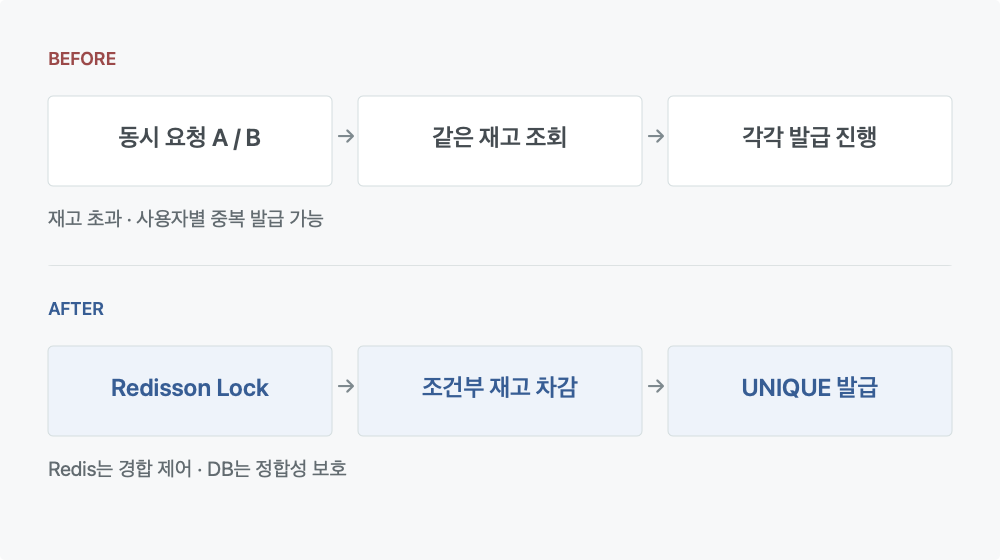
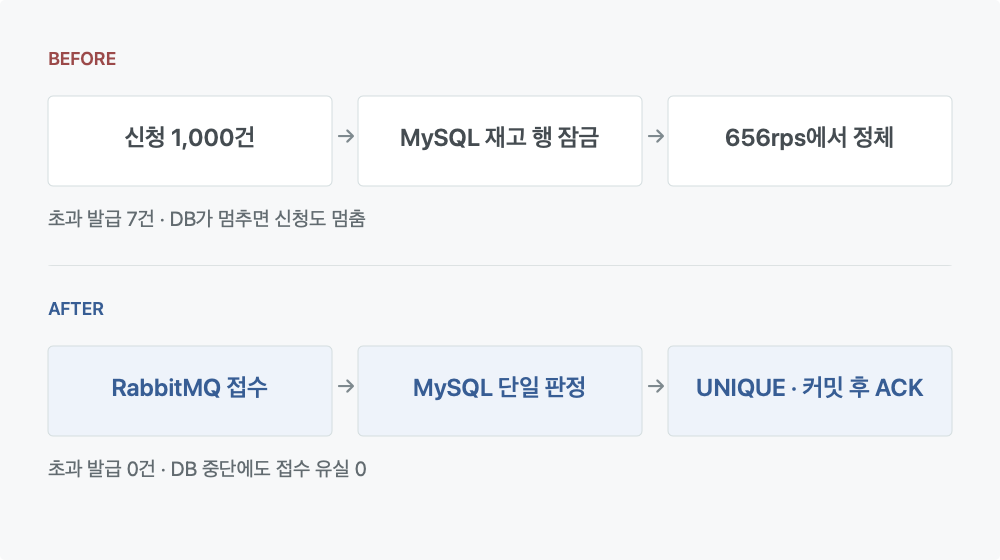
feat: 이력서·포트폴리오 PDF 내용에 맞춰 쿠폰·한 스푼 프로젝트 갱신
- Project 섹션: 쿠폰 발급을 RabbitMQ 접수 + MySQL 단일 판정 재설계(측정
  수치 포함)로, 한 스푼 신고 알림을 Transactional Outbox 상세 내용으로 교체
- Givemeticon 포트폴리오: 쿠폰 케이스를 세 번의 구조 결정(MySQL → Redis →
  RabbitMQ + MySQL)과 검증 결과로 교체, 인기순 조회 케이스는 유지
- 쿠폰 다이어그램·썸네일·메타(스택, 요약) 갱신

diff --git a/portfolio/givemeticon.html b/portfolio/givemeticon.html
@@ -1,62 +1,68 @@
 ---
 layout: case
-title: Givemeticon | 쿠폰 정합성과 인기순 조회 개선
+title: Givemeticon | 선착순 쿠폰 발급 구조와 인기순 조회 개선
 permalink: /portfolio/givemeticon/
 project: givemeticon
 ---
 <section class="experience" id="coupon-consistency" aria-labelledby="coupon-title">
   <header class="experience-heading">
-    <p class="eyebrow">01 / CONSISTENCY · Redisson, MySQL</p>
-    <h2 id="coupon-title">재고와 중복 발급 규칙을 DB까지 보호</h2>
-    <p class="problem"><strong>문제</strong>동시 요청에서 재고를 초과하거나 같은 사용자에게 쿠폰을 중복 발급할 수 있었습니다.</p>
+    <p class="eyebrow">01 / SCALABILITY · RabbitMQ, MySQL, Redis</p>
+    <h2 id="coupon-title">측정 결과를 따라 세 번 바꾼 선착순 쿠폰 발급 구조</h2>
+    <p class="problem"><strong>문제</strong>1,000명이 동시에 신청하는 선착순 쿠폰에서 초과 발급, 처리량 한계, DB 장애 시 신청 유실이 드러났습니다.</p>
   </header>
   {% include portfolio/coupon-consistency.html %}
   <div class="analysis-grid">
     <div>
-      <h3 class="section-label">판단 근거</h3>
-      <p class="decision-lead">락이 풀려도 재고와 중복 발급 규칙은<br>DB에서 지켜져야 했습니다.</p>
+      <h3 class="section-label">판단 근거 · 세 번의 결정</h3>
+      <p class="decision-lead">실제 트래픽이 없어 부하·장애 실험 환경을 만들고,<br>구조의 한계가 측정으로 드러날 때마다 다음 구조를 골랐습니다.</p>
       <ul class="decision-list">
-        <li><strong>경합 제어:</strong> stockId 기준 Redisson 분산락으로 같은 재고의 동시 진입을 제어했습니다.</li>
-        <li><strong>재고 보호:</strong> 조회 후 차감 사이의 경쟁을 없애기 위해 <code>remain &gt; 0</code>인 경우에만 DB가 원자적으로 차감하게 했습니다.</li>
-        <li><strong>중복 보호:</strong> <code>(user_id, stock_id)</code> UNIQUE와 변경 행 수 확인으로 발급 성공을 판단했습니다.</li>
+        <li><strong>① 처리량 · MySQL 판정 → Redis 판정:</strong> 재고 행에 비관적 락을 걸어 초과 발급은 0이 됐지만 처리량이 656rps에서 멈췄습니다. 행 잠금·커넥션 풀·fsync를 하나씩 바꿔 800rps에서 재측정했고, 재고 행을 4개로 나누자 p50이 3,362ms에서 2.4ms가 되어 원인을 한 행의 잠금 대기로 특정했습니다. 판정을 Redis Lua 원자 카운터로 옮겨 응답이 밀리지 않는 최대 부하가 400에서 1,600rps가 됐습니다.</li>
+        <li><strong>② 가용성 · Redis 판정 → Redis 판정 + RabbitMQ:</strong> DB를 약 48초 멈추자 성공 응답이 54초간 0이었고 당첨 기록 200건이 유실됐습니다. 응답 경로에서 DB를 빼고 브로커가 저장을 확인한 뒤 응답하도록 바꿔, DB 중단 중에도 신청 31,002건이 전부 성공했습니다.</li>
+        <li><strong>③ 정합성 · Redis 제거:</strong> 판정은 Redis, 기록은 MySQL에 있어 둘이 어긋나면 정답을 정할 기준이 없었습니다. 대조 실험에서 재시작 후 5,013장이 초과 발급됐고, Redis를 빼 판정과 기록을 MySQL 트랜잭션 하나에 두었습니다.</li>
       </ul>
       <details>
-        <summary>Redis만으로 충분하지 않다고 본 이유</summary>
-        <p>lease 만료·Redis 장애 등으로 락의 보호가 끊기는 경우에도 DB에는 잘못된 발급 결과가 남아서는 안 됩니다. Redis는 요청 경합을 제어하고, DB의 조건과 제약은 저장할 수 있는 데이터의 범위를 제한하도록 역할을 나눴습니다.</p>
-        <p><code>INSERT IGNORE</code>가 중복을 무시했더라도 성공으로 처리하지 않습니다. 반환된 행 수가 1이 아니면 예외를 발생시켜 재고 차감도 함께 롤백되도록 구성했습니다.</p>
+        <summary>Outbox · Redis Streams · Kafka · RabbitMQ를 비교한 이유</summary>
+        <table>
+          <thead><tr><th scope="col">대안</th><th scope="col">판단</th></tr></thead>
+          <tbody>
+            <tr><td>Outbox · DB 워커</td><td>신청을 먼저 DB에 써야 해서 응답 경로에서 DB를 빼지 못합니다.</td></tr>
+            <tr><td>Redis Streams</td><td>기록이 카운터와 같은 Redis에 남아 장애가 분리되지 않습니다.</td></tr>
+            <tr><td>Kafka</td><td>가능하지만 메시지 하나가 실패했을 때 그것만 다시 받으려면 재시도 경로를 따로 설계해야 합니다.</td></tr>
+            <tr><td>RabbitMQ · 선택</td><td>저장 후 확인, 메시지별 확인·재전달이 가능합니다.</td></tr>
+          </tbody>
+        </table>
       </details>
     </div>
     <div>
-      <div class="code-title"><h3 class="section-label">핵심 코드</h3><span>SQL / Java · 핵심 발췌</span></div>
-{% highlight sql %}
-UPDATE coupon_stock
-SET remain = remain - 1
-WHERE id = #{id} AND remain > 0;
-{% endhighlight %}
-{% highlight java %}
-int updatedRows = couponStockMapper.decreaseStockIfEnough(stockId);
-if (updatedRows != 1) {
-    throw new NotEnoughCouponStockException();
-}
-// UNIQUE(user_id, stock_id)를 가진 테이블에 INSERT IGNORE
-int insertedRows = couponMapper.saveIfNotIssued(coupon);
-if (insertedRows != 1) {
-    throw new AlreadyIssuedCouponException();
-}
-{% endhighlight %}
-      <p class="code-note">재고·쿠폰 서비스의 검사 부분을 모았습니다. 락 획득 후 AopForTransaction이 발급 흐름을 REQUIRES_NEW로 감싸며, 예외 시 함께 롤백하는 구조입니다.</p>
+      <h3 class="section-label">최종 구조의 구현</h3>
+      <ul class="decision-list">
+        <li><strong>접수:</strong> 브로커 저장 확인을 받은 뒤에만 202와 접수 번호를 응답합니다. 확인이 늦으면 접수 번호와 함께 503을 주고, 큐가 가득 차면 새 신청을 거절합니다.</li>
+        <li><strong>판정:</strong> 소비자 1개가 순서대로 MySQL 트랜잭션 하나에서 중복 확인 → 재고 차감 → 결과 기록을 처리합니다. 같은 접수 번호는 한 번만, 한 사람은 한 장만(UNIQUE), 재고가 남을 때만 차감합니다.</li>
+        <li><strong>확인:</strong> DB에 커밋한 뒤에 처리 완료(ACK)를 알려, 소비자가 죽어도 판정이 사라지지 않게 했습니다.</li>
+        <li><strong>장애 처리:</strong> DB 연결이 끊긴 오류면 소비를 멈췄다 재개하고, 그 밖의 실패는 3번 시도 후 격리 큐로 보냅니다.</li>
+      </ul>
+      <table>
+        <thead><tr><th scope="col">800rps에서</th><th scope="col">이전</th><th scope="col">변경</th></tr></thead>
+        <tbody>
+          <tr><td>신청 응답 p95</td><td>35~121ms</td><td>18~92ms</td></tr>
+          <tr><td>당첨 결과를 아는 시점</td><td>응답 즉시</td><td>중앙값 42~53초 뒤</td></tr>
+          <tr><td>소비 속도(행/초)</td><td>740~890</td><td>320~440</td></tr>
+          <tr><td>신청당 DB 기록</td><td>1행</td><td>2행</td></tr>
+        </tbody>
+      </table>
+      <p class="code-note">응답과 확정 시점은 두 구조 각 3회, 소비 속도는 큐가 줄어든 기울기로 구한 값입니다. 판정 위치와 기록량이 함께 바뀌어 차이를 하나의 원인으로 돌리지 않습니다.</p>
     </div>
   </div>
   <div class="verification">
-    <h3 class="section-label">검증 결과</h3>
+    <h3 class="section-label">검증 결과 · 최종 구조</h3>
     <div class="metrics">
-      <div class="metric"><strong>100개</strong><span>초기 재고 100개 → 발급 100개</span></div>
-      <div class="metric"><strong>0개</strong><span>최종 DB 잔여 재고</span></div>
-      <div class="metric"><strong>0건</strong><span>사용자별 중복 발급</span></div>
+      <div class="metric"><strong>40회</strong><span>정합성 테스트 · 매회 재고 100장, 초과 발급 0</span></div>
+      <div class="metric"><strong>31,001건</strong><span>DB 중단 중 신청 전부 접수 · 복구 후 유실 0</span></div>
+      <div class="metric"><strong>620건 → 0건</strong><span>커밋 후 ACK 전 강제 종료, 재전달 중 중복 저장</span></div>
     </div>
-    <p>로컬 애플리케이션 2대 환경에서 동시 요청 후 MySQL의 최종 발급 수·잔여 재고·중복 건수를 조회한 결과입니다.</p>
+    <p>1,000명 동시 신청·재고 100장을 10회 단위로 반복하고, 부하 중 DB·브로커를 멈추거나 소비자를 강제로 종료했습니다. 부하는 k6로 초당 요청 수를 단계별로 올렸고, 측정 전에 예상 결과를 문서에 적은 뒤 맞았는지 판정했습니다.</p>
   </div>
-  <aside class="limits"><h3>한계 · 다음 단계</h3><p>stockId 단위 직렬화는 요청 증가 시 대기 병목이 될 수 있습니다. 정상 동시 요청의 결과만으로 장애까지 보장할 수는 없어, 락 만료·쿠폰 생성 실패 시 롤백과 Redis 발급 이력의 불일치를 별도 통합 테스트로 검증해야 합니다.</p></aside>
+  <aside class="limits"><h3>한계 · 다음 단계</h3><p>이전의 200은 '당첨', 지금의 202는 '접수'라서 사용자가 결과를 따로 확인해야 하고, 800rps에서 결과 확정까지 중앙값 42~53초가 걸립니다. 소비자 1개가 접수 속도를 따라가지 못하고, 브로커 한 대가 멈추면 접수 전체가 멈춥니다. 복제 구성과 소비자 확장은 선착순 순서 보장과 함께 다시 결정해야 합니다. 최종 구조의 정합성 테스트가 20회 중 2회 600초 멈춘 문제는, 채널 캐시 크기(200)를 가상 스레드 캐리어 수(256)보다 작게 제한해 해소했고 40회 재검증에서 0회였습니다. 이 원인은 요청을 플랫폼 스레드로 처리하는 운영 경로에서는 재현하지 않았습니다.</p></aside>
 </section>
 
 <section class="experience" id="popular-query" aria-labelledby="popular-title">

diff --git a/_includes/portfolio/coupon-consistency.html b/_includes/portfolio/coupon-consistency.html
@@ -1,20 +1,17 @@
 <figure class="structure" data-diagram="coupon-consistency">
-  <figcaption>경합 제어와 데이터 정합성의 역할 분리</figcaption>
+  <figcaption>선착순 쿠폰 발급 구조의 변화 · 판정과 기록의 위치</figcaption>
   <div class="diagram-grid">
     <div class="diagram-side before">
-      <div class="diagram-label">BEFORE <span>조회 결과만으로 발급 가능 여부 판단</span></div>
-      <div class="flow"><div class="node">요청 A</div><span class="arrow" aria-hidden="true">→</span><div class="node">남은 재고 1</div><span class="arrow" aria-hidden="true">→</span><div class="node risk">발급 진행</div></div>
-      <div class="flow"><div class="node">요청 B</div><span class="arrow" aria-hidden="true">→</span><div class="node">남은 재고 1</div><span class="arrow" aria-hidden="true">→</span><div class="node risk">발급 진행</div></div>
-      <p class="flow-caption"><strong>초과 발급 / 같은 사용자의 중복 발급</strong> 가능</p>
+      <div class="diagram-label">BEFORE <span>응답 전에 MySQL이 재고 행을 잠그고 판정</span></div>
+      <div class="flow"><div class="node">신청</div><span class="arrow" aria-hidden="true">→</span><div class="node risk">MySQL<small>재고 행 잠금 → 차감 → 기록</small></div><span class="arrow" aria-hidden="true">→</span><div class="node">응답</div></div>
+      <p class="flow-caption">잠금 없이는 <strong>107장 발급</strong>, 잠그면 <strong>656rps에서 정체</strong> · DB가 멈추면 신청도 멈춤</p>
     </div>
     <div class="diagram-side after">
-      <div class="diagram-label">AFTER <span>Redis + MySQL</span></div>
-      <div class="node good">Redisson 분산락<small>stockId 단위 진입 제어</small></div>
+      <div class="diagram-label">AFTER <span>RabbitMQ 접수 + MySQL 단일 판정</span></div>
+      <div class="flow"><div class="node">신청</div><span class="arrow" aria-hidden="true">→</span><div class="node good">RabbitMQ<small>저장 확인</small></div><span class="arrow" aria-hidden="true">→</span><div class="node">202 접수 번호</div></div>
       <div class="down" aria-hidden="true">↓</div>
-      <div class="node">트랜잭션 진입 · ZSet 순서 확인</div>
-      <div class="down" aria-hidden="true">↓</div>
-      <div class="scope"><span class="scope-label">DB에서 지키는 두 가지 규칙</span><div class="flow"><div class="node good">조건부 재고 차감<small>remain &gt; 0</small></div><span class="arrow" aria-hidden="true">→</span><div class="node good">중복 발급 차단<small>UNIQUE(user, stock)</small></div></div></div>
-      <p class="flow-caption"><strong>변경 행 수 확인</strong> · 실패 시 예외로 롤백</p>
+      <div class="scope"><span class="scope-label">응답 뒤 · 소비자 1개가 순서대로</span><div class="flow"><div class="node good">MySQL 트랜잭션<small>중복 확인 → 재고 차감 → 결과 기록</small></div><span class="arrow" aria-hidden="true">→</span><div class="node">커밋 후 ACK</div></div></div>
+      <p class="flow-caption"><strong>UNIQUE · 조건부 차감</strong> · 대가: 결과 확인까지 지연</p>
     </div>
   </div>
 </figure>

diff --git a/scripts/render-portfolio-images.m b/scripts/render-portfolio-images.m
@@ -32,7 +32,7 @@ int main(int argc, const char *argv[]) {
         NSArray *diagrams = @[
             @[@"daily-question", @[@"동시 요청 A / B", @"오늘 이력 없음", @"각각 신규 발급"], @[@"사용자별 Lock", @"최신 이력 재조회", @"기존 반환 / 발급"], @"동일한 발급 판단이 중복 실행", @"조회부터 저장까지 보호 · Commit 후 락 해제", @NO],
             @[@"report-notification", @[@"신고 저장", @"Slack 전송 실패", @"알림 누락"], @[@"신고 + Outbox 저장", @"Commit 후 전송", @"실패 건 재처리"], @"실패한 전송을 다시 찾을 기록이 없음", @"같은 트랜잭션 저장 · PENDING → SUCCESS / FAILED → Scheduler", @NO],
-            @[@"coupon-consistency", @[@"동시 요청 A / B", @"같은 재고 조회", @"각각 발급 진행"], @[@"Redisson Lock", @"조건부 재고 차감", @"UNIQUE 발급"], @"재고 초과 · 사용자별 중복 발급 가능", @"Redis는 경합 제어 · DB는 정합성 보호", @YES],
+            @[@"coupon-consistency", @[@"신청 1,000건", @"MySQL 재고 행 잠금", @"656rps에서 정체"], @[@"RabbitMQ 접수", @"MySQL 단일 판정", @"UNIQUE · 커밋 후 ACK"], @"초과 발급 7건 · DB가 멈추면 신청도 멈춤", @"초과 발급 0건 · DB 중단에도 접수 유실 0", @YES],
             @[@"popular-query", @[@"좋아요 100만 건", @"실시간 집계·정렬", @"Top 20 조회"], @[@"쓰기 시 집계 갱신", @"메타 + 인덱스", @"Top 20 조회"], @"조회할 때마다 GROUP BY + COUNT + ORDER BY", @"읽기 경로에서 반복 집계 제거", @YES]
         ];
         for (NSArray *diagram in diagrams) {
